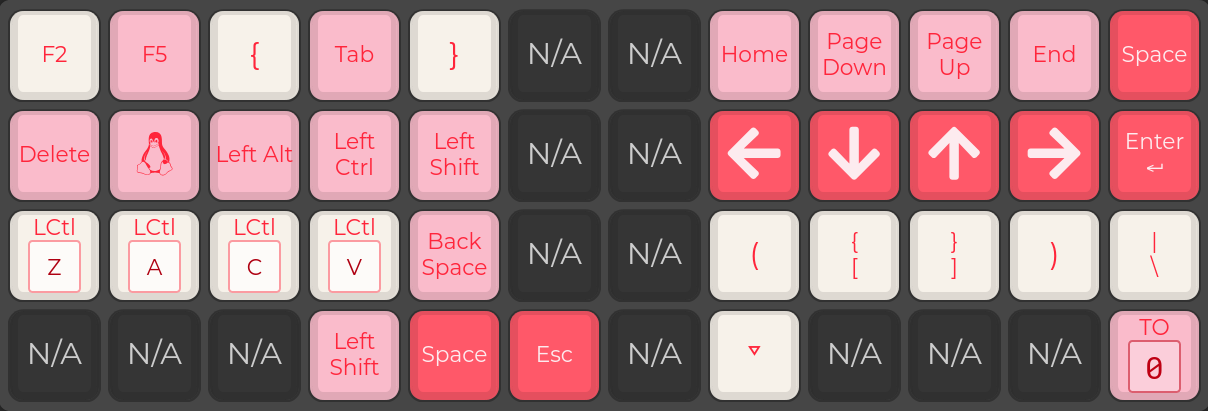
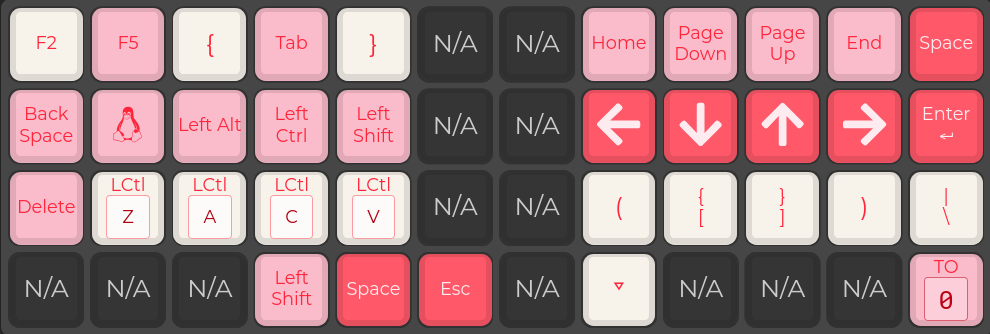
Optimize Colemak layout for pinky reaches

diff --git a/keyboards/planck/rev7/keymaps/akyuute_minimal/keymap.c b/keyboards/planck/rev7/keymaps/akyuute_minimal/keymap.c
@@ -2,7 +2,7 @@
 
 enum planck_layers {
     _QWERTY,
-    _COLEMAK,
+    _PINKY_REACH_CMK,
     _PLOVER,
     _MVMT,
     _SYMB,
@@ -43,11 +43,11 @@ const uint16_t PROGMEM keymaps[][MATRIX_ROWS][MATRIX_COLS] = {
 
     ),
 
-    [_COLEMAK] = LAYOUT(
+    [_PINKY_REACH_CMK] = LAYOUT(
 
-        KC_Q, KC_W, KC_F, KC_P, KC_G, KC_NO,KC_NO, KC_J, KC_L, KC_U, KC_Y, KC_MINS,
-        KC_A, LG(KC_R), LA(KC_S), LC(KC_T), LS(KC_D), KC_NO,KC_NO, LS(KC_H), RC(KC_N), RA(KC_E), RG(KC_I), KC_O,
-        KC_Z, KC_X, KC_C, KC_V, SYMB(KC_B), KC_NO,KC_NO, SYMB(KC_K), KC_M, KC_COMM, KC_DOT, KC_QUOT,
+        KC_Q, KC_G, KC_W, KC_F, KC_P, KC_NO,KC_NO, KC_L, KC_U, KC_Y, KC_J, KC_MINS,
+        KC_D, LG(KC_A), LA(KC_R), LC(KC_S), LS(KC_T), KC_NO,KC_NO, LS(KC_N), RC(KC_E), RA(KC_I), RG(KC_O), KC_H,
+        KC_B, KC_Z, KC_X, KC_C, SYMB(KC_V), KC_NO,KC_NO, SYMB(KC_M), KC_K, KC_COMM, KC_DOT, KC_QUOT,
         QK_REP, DM_REC1, DM_PLY1, NUM(KC_DEL), LS(KC_BSPC), SYMB(KC_ESC),KC_ENT, MVMT(KC_SPC), MOUSE(KC_TAB), DM_REC2, DM_PLY2, TO(_MOUSE)
 
     ),
@@ -73,8 +73,8 @@ const uint16_t PROGMEM keymaps[][MATRIX_ROWS][MATRIX_COLS] = {
     [_MVMT] = LAYOUT(
 
         KC_F2, KC_F5, KC_LCBR, KC_TAB, KC_RCBR, KC_NO,KC_NO, KC_HOME, KC_PGDN, KC_PGUP, KC_END, KC_SPC,
-        KC_DEL, KC_LGUI, KC_LALT, KC_LCTL, KC_LSFT, KC_NO,KC_NO, KC_LEFT, KC_DOWN, KC_UP, KC_RGHT, KC_ENT,
-        C(KC_Z), C(KC_A), C(KC_C), C(KC_V), KC_BSPC, KC_NO,KC_NO, KC_LPRN, KC_LBRC, KC_RBRC, KC_RPRN, KC_BSLS,
+        KC_BSPC, KC_LGUI, KC_LALT, KC_LCTL, KC_LSFT, KC_NO,KC_NO, KC_LEFT, KC_DOWN, KC_UP, KC_RGHT, KC_ENT,
+        KC_DEL, C(KC_Z), C(KC_A), C(KC_C), C(KC_V), KC_NO,KC_NO, KC_LPRN, KC_LBRC, KC_RBRC, KC_RPRN, KC_BSLS,
         KC_NO, KC_NO, KC_NO, KC_LSFT, KC_SPC, KC_ESC,KC_NO, KC_TRNS, KC_NO, KC_NO, KC_NO, TO(0)
 
     ),
@@ -109,7 +109,7 @@ const uint16_t PROGMEM keymaps[][MATRIX_ROWS][MATRIX_COLS] = {
     [_ADJUST] = LAYOUT(
 
         QK_BOOT, DB_TOGG, UG_TOGG, UG_NEXT, UG_HUEU, KC_NO,KC_NO, UG_HUED, UG_SATU, UG_SATD, UG_SPDU, UG_SPDD,
-        MU_NEXT, AU_ON, AU_OFF, AG_NORM, AG_SWAP, KC_NO,KC_NO, PDF(_QWERTY), PDF(_COLEMAK), PDF(_PLOVER), TO(0), KC_NO,
+        MU_NEXT, AU_ON, AU_OFF, AG_NORM, AG_SWAP, KC_NO,KC_NO, PDF(_QWERTY), PDF(_PINKY_REACH_CMK), PDF(_PLOVER), TO(0), KC_NO,
         AU_PREV, AU_NEXT, MU_ON, MU_OFF, KC_NO, KC_NO,KC_NO, MI_ON, MI_OFF, KC_NO, KC_NO, EE_CLR,
         KC_NO, KC_NO, KC_NO, KC_NO, KC_TRNS, KC_NO,KC_NO, KC_TRNS, KC_NO, KC_NO, KC_NO, TO(0)
 
